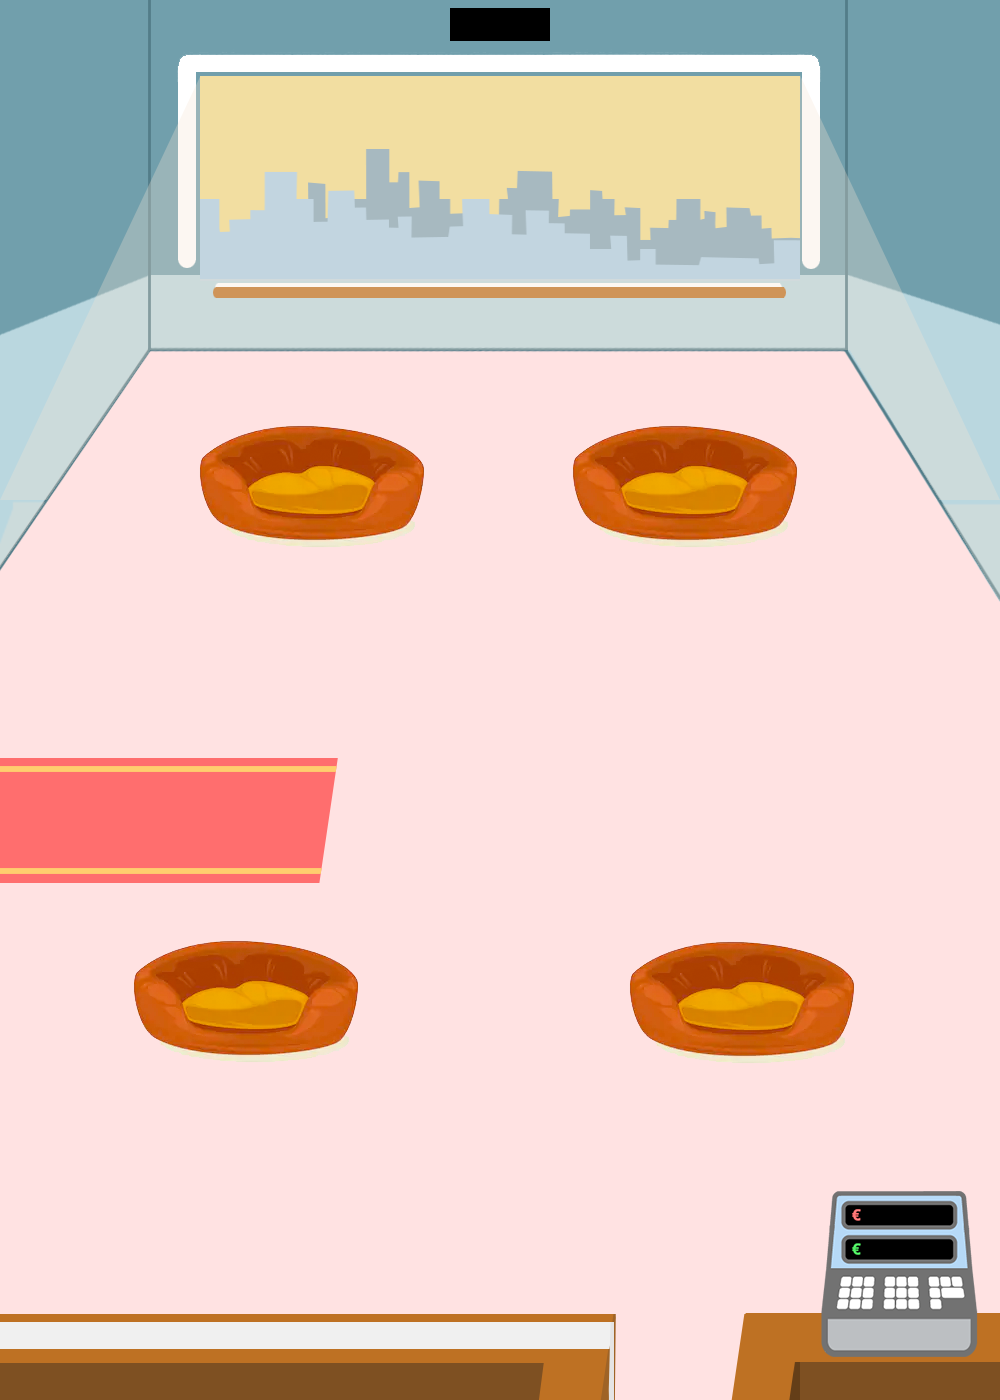
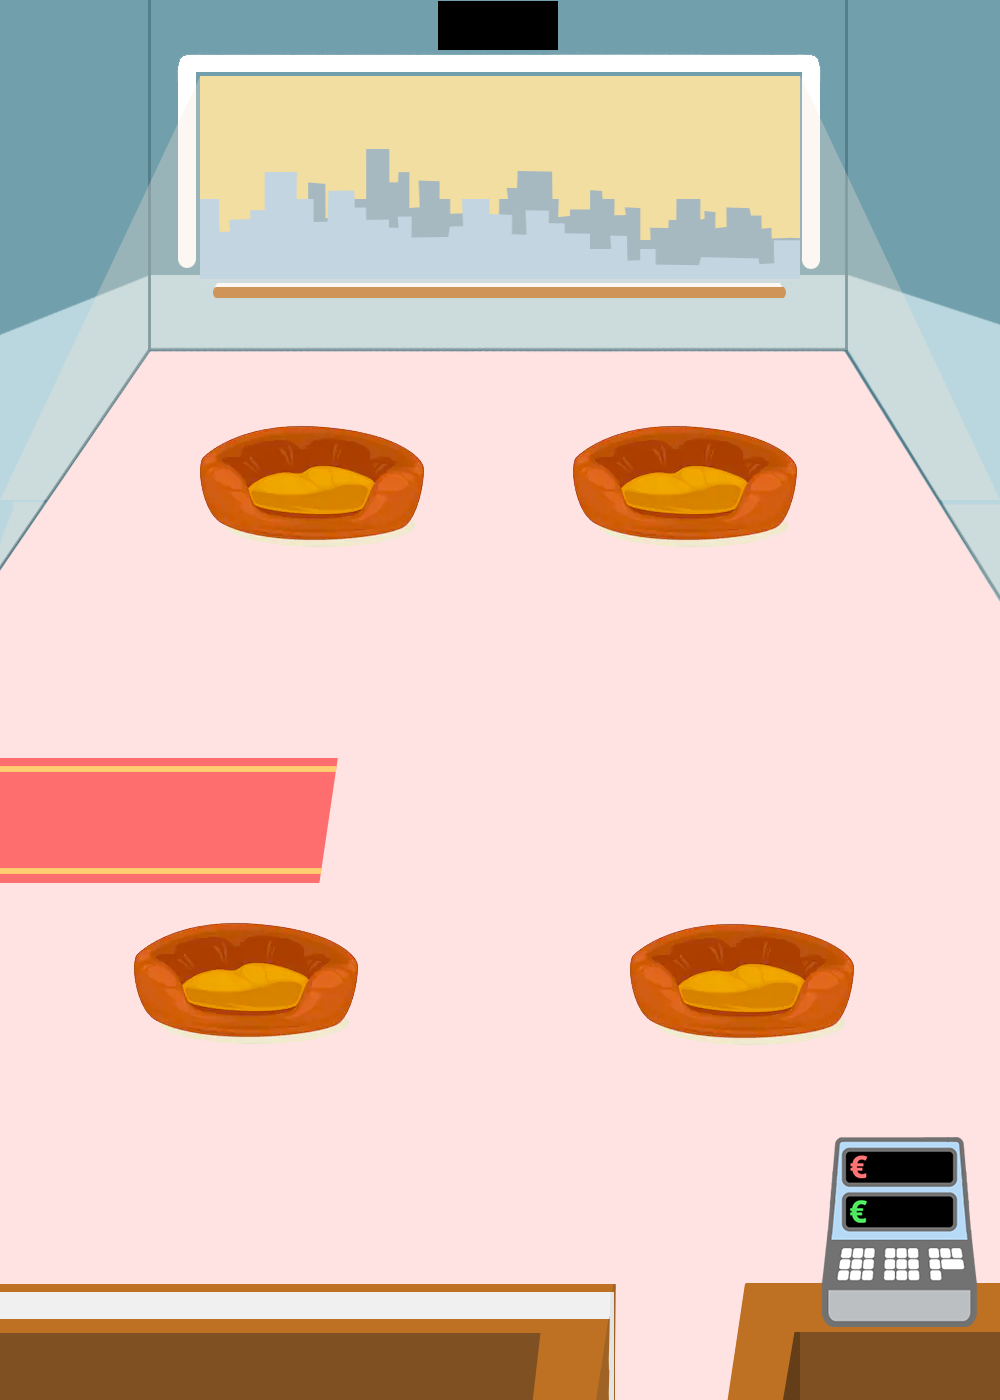
update servingHatch and cash register visuals

diff --git a/js/servingHatch.js b/js/servingHatch.js
@@ -3,7 +3,7 @@ class ServingHatch extends Component {
         var w = 500;
         var h = 30;
         var x = 0;
-        var y = H-80;
+        var y = H-120;
         var iX = null;
         var iY = null;
 
@@ -23,8 +23,8 @@ class ServingHatch extends Component {
         const servingHatchImage = document.createElement('img');
         servingHatchImage.onload = () => {
           this.image = servingHatchImage;
-          this.imageW = 628;
-          this.imageH = 100;
+          this.imageW = 624;
+          this.imageH = 124;
           this.imageX = 0;
           this.imageY = H - this.imageH;
         }
